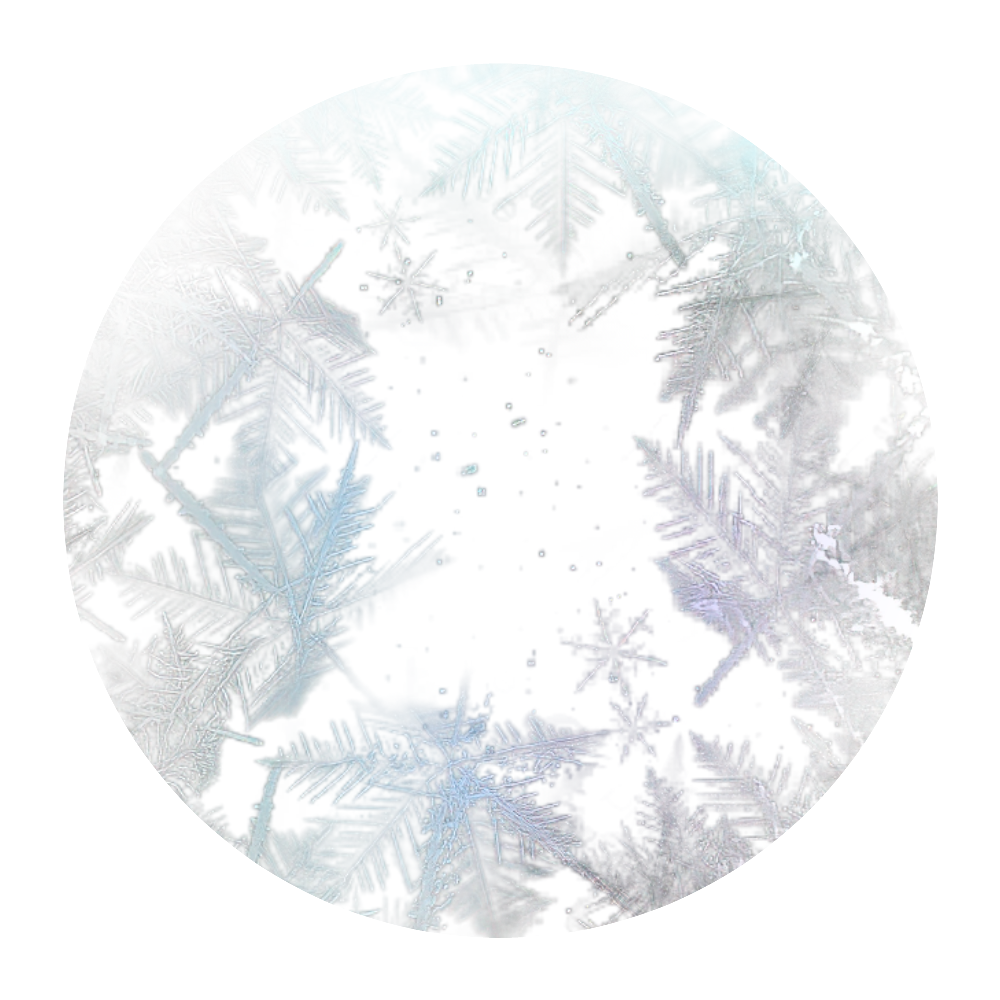
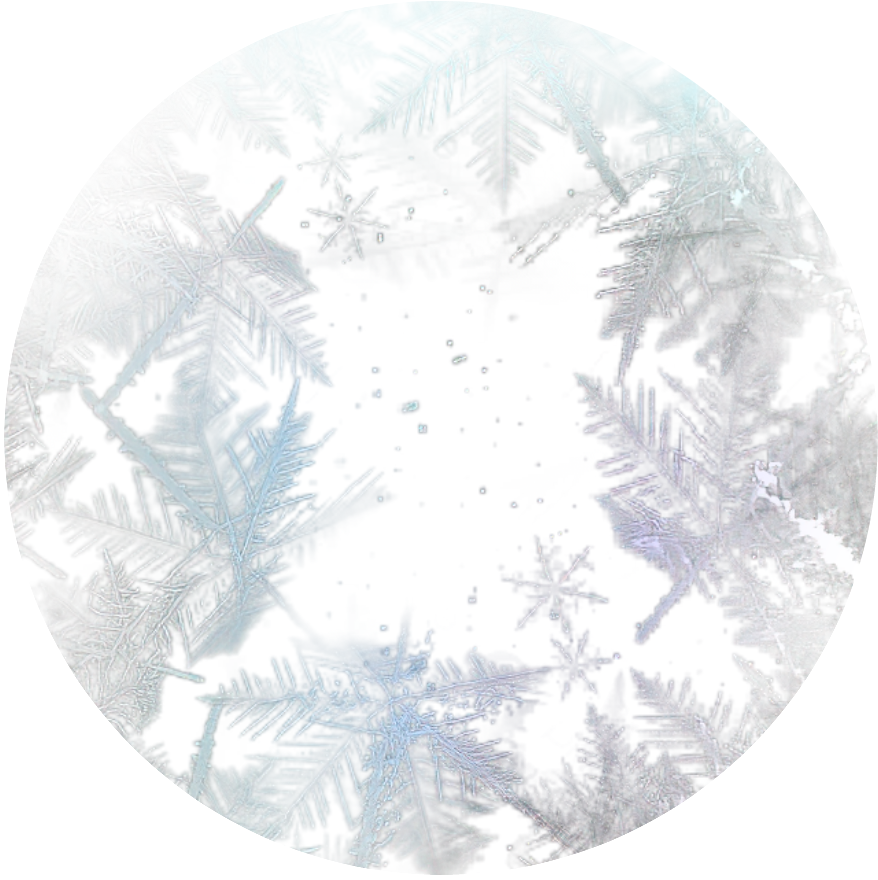
ajustement des background hiver

diff --git a/src/components/Players.tsx b/src/components/Players.tsx
@@ -58,12 +58,16 @@ const Players: React.FC<Props> = ({
             color={p.id == target ? "white" : color}
             className="h-full"
           >
+              <img
+                src="./hiver_background_player.png"
+                className={`absolute top-0 right-0.5 w-full h-full `}
+              />
             <div className="w-full">
               <div className="grid grid-cols-12 w-11/12 mx-auto">
-                <p className="text-xl col-span-10 text-ellipsis overflow-hidden whitespace-nowrap ">
+                <p className="z-10 text-xl col-span-10 text-ellipsis overflow-hidden whitespace-nowrap">
                   {p.name}
                 </p>
-                <p className="text-xl text-end font-semibold col-span-2">
+                <p className="z-10 text-xl text-end font-semibold col-span-2">
                   {p.boost}
                 </p>
               </div>
@@ -77,29 +81,48 @@ const Players: React.FC<Props> = ({
             key={p.id + "2121"}
             color={p.id == target ? "white" : color}
             className={
-              "h-full transition-all duration-500 " +
+              "z-20 h-full transition-all duration-500 " +
               (getEvent(p) !== undefined ? "-translate-y-full" : "")
             }
           >
-            <div className="w-full flex items-center justify-between px-4">
-              <span className="text-xl text-ellipsis overflow-hidden whitespace-nowrap pr-2 ">
+            <div className="w-full flex items-center justify-between px-1">
+              <img
+                src="./hiver_background_player.png"
+                className={`absolute top-0 right-0.5 w-full h-full `}
+              />
+              <span className="z-10 text-xl text-ellipsis overflow-hidden whitespace-nowrap pr-2 ">
                 {p.name}
               </span>
-              <div className="flex gap-x-4 items-center">
+              <div className="z-10 flex gap-x-4 items-center">
                 {getLastEvent(p).includes("demo") && (
-                  <img src="./icons/demolition.png" className="w-7 h-7 object-contain" />
+                  <img
+                    src="./icons/demolition.png"
+                    className="w-9 h-9 object-contain"
+                  />
                 )}
                 {getLastEvent(p).includes("assist") && (
-                  <img src="./icons/assist.png" className="w-7 h-7 object-contain" />
+                  <img
+                    src="./icons/assist.png"
+                    className="w-7 h-7 object-contain"
+                  />
                 )}
                 {getLastEvent(p).includes("goal") && (
-                  <img src="./icons/goal.png" className="w-7 h-7 object-contain" />
+                  <img
+                    src="./icons/goal.png"
+                    className="w-7 h-7 object-contain"
+                  />
                 )}
                 {getLastEvent(p).includes("save") && (
-                  <img src="./icons/save.png" className="w-7 h-7 object-contain" />
+                  <img
+                    src="./icons/save.png"
+                    className="w-7 h-7 object-contain"
+                  />
                 )}
                 {getLastEvent(p).includes("shot") && (
-                  <img src="./icons/target_shot.png" className="w-7 h-7 object-contain" />
+                  <img
+                    src="./icons/target_shot.png"
+                    className="w-7 h-7 object-contain"
+                  />
                 )}
               </div>
             </div>

diff --git a/src/components/Scoreboard.tsx b/src/components/Scoreboard.tsx
@@ -44,13 +44,19 @@ const Scoreboard: React.FC<Props> = ({
       <div className="col-span-4 flex flex-col gap-y-1">
         <div className="flex gap-x-1">
           <Card color="blue" className="w-full h-16">
+            <img
+              src="./hiver_background_player.png"
+              className={`absolute top-0 right-0.5 w-full h-full `}
+            />
             {findTeamLogo(0) && (
               <img
-                className="rounded-full h-20 w-1/4 object-contain"
+                className="rounded-full z-10 h-20 w-1/4 object-contain"
                 src={"/src/assets/logo/" + findTeamLogo(0)}
               />
             )}
-            <p className="text-2xl font-semibold mx-auto">{teams[0]?.name}</p>
+            <p className="z-10 text-2xl font-semibold mx-auto">
+              {teams[0]?.name}
+            </p>
           </Card>
         </div>
         <div className="flex flex-row-reverse gap-x-1 w-full">
@@ -68,6 +74,10 @@ const Scoreboard: React.FC<Props> = ({
         <div className="grid grid-cols-4 gap-x-2">
           <div>
             <Card color="blue" className="w-full h-16">
+              <img
+                src="./hiver_background_score.png"
+                className={`absolute top-0 right-0.5 w-full h-full `}
+              />
               <span className="mx-auto font-bold text-3xl">
                 {teams[0]?.score}
               </span>
@@ -75,6 +85,10 @@ const Scoreboard: React.FC<Props> = ({
           </div>
           <div className="col-span-2 h-16 flex">
             <Card color="main" className="w-full">
+              <img
+                src="./hiver_background_score.png"
+                className={`absolute top-0 right-0.5 w-full h-full `}
+              />
               <p className="mx-auto font-semibold text-3xl">
                 {isOT && "+"}
                 {convertSeconds(seconds)}
@@ -83,6 +97,10 @@ const Scoreboard: React.FC<Props> = ({
           </div>
           <div>
             <Card color="orange" className="w-full h-16">
+              <img
+                src="./hiver_background_score.png"
+                className={`absolute top-0 right-0.5 w-full h-full `}
+              />
               <span className="mx-auto font-bold text-3xl">
                 {teams[1]?.score}
               </span>
@@ -110,10 +128,16 @@ const Scoreboard: React.FC<Props> = ({
       </div>
       <div className="col-span-4 flex flex-col gap-y-1">
         <Card color="orange" className="w-full h-16">
-          <p className="mx-auto text-2xl font-semibold">{teams[1]?.name}</p>
+          <img
+            src="./hiver_background_player.png"
+            className={`absolute top-0 right-0.5 w-full h-full `}
+          />
+          <p className="z-10 mx-auto text-2xl font-semibold">
+            {teams[1]?.name}
+          </p>
           {findTeamLogo(1) && (
             <img
-              className="rounded-full h-20 w-1/4 object-contain"
+              className="rounded-full z-10 h-20 w-1/4 object-contain"
               src={"/src/assets/logo/" + findTeamLogo(1)}
             />
           )}

diff --git a/src/components/EndScoreboard.tsx b/src/components/EndScoreboard.tsx
@@ -1,5 +1,5 @@
 import type { Player, Team } from "../types/updateState";
-import type BestOf from "../types/bestOf"
+import type BestOf from "../types/bestOf";
 
 import getWidth from "../utils/getWidth";
 import Scoreboard from "./Scoreboard";
@@ -12,10 +12,15 @@ interface Props {
   players: Player[];
   teams: Team[];
   bestOf: BestOf;
-  gamesWon: number[]
+  gamesWon: number[];
 }
 
-const EndScoreboard: React.FC<Props> = ({ players, teams, bestOf, gamesWon }) => {
+const EndScoreboard: React.FC<Props> = ({
+  players,
+  teams,
+  bestOf,
+  gamesWon,
+}) => {
   interface PlayerProps {
     team: number;
   }
@@ -27,7 +32,7 @@ const EndScoreboard: React.FC<Props> = ({ players, teams, bestOf, gamesWon }) =>
           .filter((p) => p.team === team)
           .map((p) => (
             <div
-              key={"End"+p.id}
+              key={"End" + p.id}
               className={
                 "text-white text-center overflow-hidden whitespace-nowrap text-ellipsis " +
                 getWidth(players)
@@ -52,9 +57,14 @@ const EndScoreboard: React.FC<Props> = ({ players, teams, bestOf, gamesWon }) =>
       >
         <source src={background} type="video/mp4" />
       </video>
-      <div className="flex flex-col gap-y-8 px-24 pt-12">
+      <div className="flex flex-col gap-y-8 px-16 pt-12">
         <div className="flex justify-center w-full">
-          <Scoreboard teams={teams} seconds={0} bestOf={bestOf} gamesWon={gamesWon}/>
+          <Scoreboard
+            teams={teams}
+            seconds={0}
+            bestOf={bestOf}
+            gamesWon={gamesWon}
+          />
         </div>
         <div className={`h-20 flex items-center gap-x-4 w-full`}>
           <Card color={"blue"} className="flex flex-grow h-full">
@@ -62,7 +72,7 @@ const EndScoreboard: React.FC<Props> = ({ players, teams, bestOf, gamesWon }) =>
               <PlayerNames team={0} />
             </div>
           </Card>
-          <Card color="main" className="h-full w-96">
+          <Card color="main" className="h-full w-4/12">
             <div className="text-center mx-auto">Scoreboard</div>
           </Card>
           <Card color={"orange"} className="flex flex-grow h-full">

diff --git a/src/components/Boost.tsx b/src/components/Boost.tsx
@@ -12,21 +12,21 @@ const Boost: React.FC<Props> = ({ player }) => {
   return (
     <>
       <div className="relative ml-auto rounded-full w-48 h-48 flex items-center justify-center">
-        <img src="./boost-Gel.png" className={`absolute z-10 top-0 w-full h-full `} />
-        <div
-          className={`bg-gradient-to-tr ${colorClasses} p-1 w-full h-full rounded-full flex items-center justify-center`}
-        >
+        <img
+          src="./boost-Gel.png"
+          className={`absolute z-10 w-11/12 h-11/12 rounded-full flex items-center justify-center opacity-50`}
+        />
+        <div>
           <img
-            src="./background.png"
-            className="w-full h-full object-cover rounded-full"
+            src="./boost-Plein.png"
+            className="w-full h-full -z-10 object-cover rounded-full"
             alt="background"
           />
-          <div
-            className={`absolute bg-gradient-to-br ${colorClasses} w-4/6 h-4/6 rounded-full flex items-center blur-lg justify-center opacity-50`}
-          />
         </div>
-
-        <span className="absolute text-white font-bold text-4xl opacity-90">
+        <div
+          className={`absolute bg-gradient-to-br ${colorClasses} w-4/6 h-4/6 rounded-full flex items-center blur-lg justify-center opacity-50`}
+        />
+        <span className="absolute text-white pt-7 font-bold text-4xl opacity-80">
           {player.boost}
         </span>
       </div>

diff --git a/src/components/PlayerStats.tsx b/src/components/PlayerStats.tsx
@@ -11,9 +11,19 @@ const PlayerStats: React.FC<Props> = ({ player }) => {
     <>
       <div>
         <Card color={getTeamColor(player.team)} className="w-56 h-12 mb-1.5">
-          <p className="text-xl font-bold mx-auto overflow-hidden text-ellipsis whitespace-nowrap px-4">{player.name}</p>
+          <img
+            src="./hiver_background_player_stats.png"
+            className={`absolute top-0 w-full h-full `}
+          />
+          <p className="z-10 text-xl font-bold mx-auto overflow-hidden text-ellipsis whitespace-nowrap px-4">
+            {player.name}
+          </p>
         </Card>
         <Card color={getTeamColor(player.team)} className="w-[36rem] h-20">
+          <img
+            src="./hiver_background_score.png"
+            className={`absolute top-0 right-0.5 w-full h-full opacity-80 `}
+          />
           <div className="w-full px-8 flex items-center justify-between">
             <div className="flex flex-col items-center">
               <p className="text-lg font-semibold opacity-80">Score</p>

diff --git a/src/utils/getWidth.ts b/src/utils/getWidth.ts
@@ -20,24 +20,3 @@ function getWidth(players: Player[]) {
 }
 
 export default getWidth;
-
-// JSON || Variable -> Chemin de l'image (/TFM_Esport.png)
-
-
-// "TFM_Esport.png" || "TFM_Esport$TFM.png"
-// Equipe 1 RL: RQS Esport
-// Equipê 2 RL: TFM Esports
-
-// lowerCase, upperCase
-// -> -.* -> ["TFM", "ESPORT"]
-// Match ["TFM", "ESPORT"] -> "TFM ESPORT" -> "TFM ESPORT" === "TFM" // False
-// Blacklist, Esport, Esports, Club, Gaming, Clan
-// ["TFM", "ESPORT"] -> ["TFM"]
-// Match ["TFM"].includes("TFM Esports") // False
-// "TFM Esports" -> ["TFM", "ESPORTS"] -> ["TFM"] ->(join(" ")) "TFM"
-// Match ["TFM"].includes("TFM") // True
-
-
-
-// Match -> 
-// Match Equipe2

diff --git a/src/App.tsx b/src/App.tsx
@@ -222,7 +222,7 @@ function App() {
   return (
     <>
       <Transition play={transition} />
-      {gameStatus === "ended" && (
+      {gameStatus !== "ended" && (
         <EndScoreboard
           players={players}
           teams={teams}
@@ -230,7 +230,7 @@ function App() {
           gamesWon={gamesWon}
         />
       )} 
-      {gameStatus !== "ended" && (
+      {gameStatus === "ended" && (
         <Main
           players={players}
           targetPlayer={targetPlayer}

diff --git a/src/components/Card.tsx b/src/components/Card.tsx
@@ -29,7 +29,6 @@ const Card: React.FC<Props> = ({
   const [background, _] = useState(type || 0)
   return (
     <div className={`relative w-full h-full ${className}`}>
-      <img src="./background-Hiver-02.png" className={`absolute z-10 top-0 w-full h-full `} />
       <div
         className={`relative bg-gradient-to-r p-[3px] h-full w-full flex ${getColorClasses(
           color
